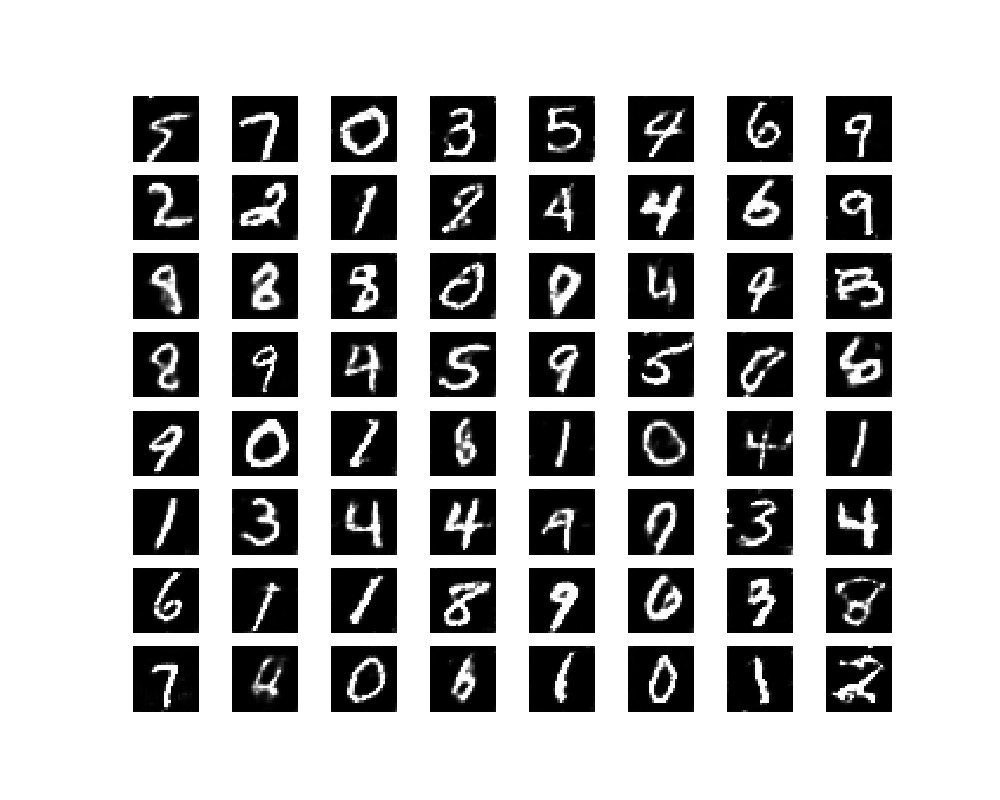
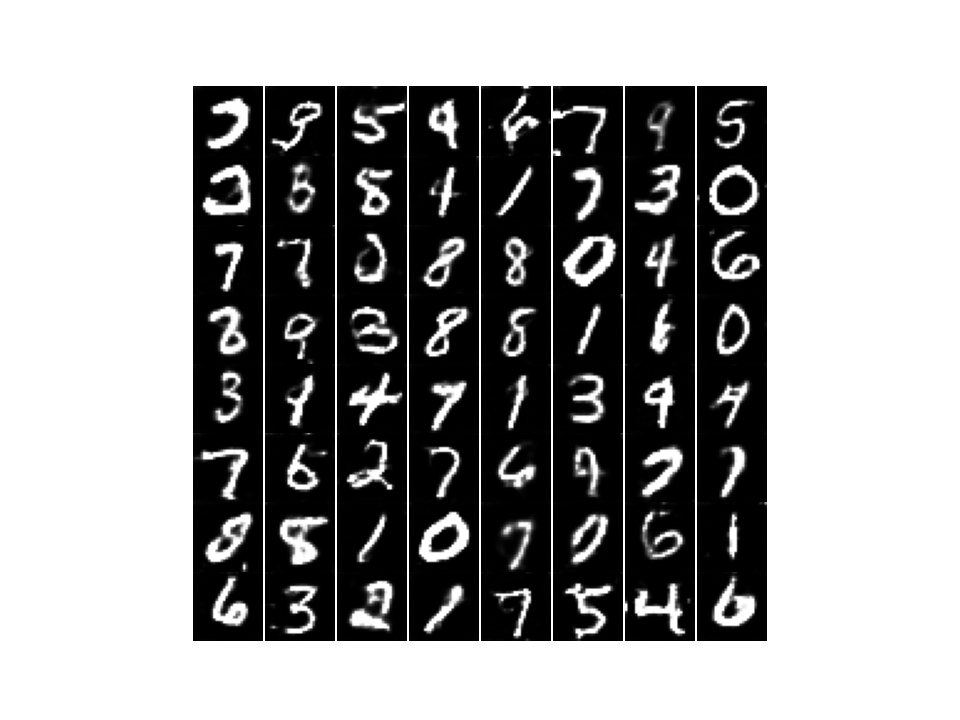
1.fix typo 2.add a hint when image saved 3.adjust the space between the subplots

diff --git a/train.py b/train.py
@@ -102,16 +102,14 @@ class Trainer:
     @staticmethod
     def save_imgs(images, epoch):
         plt.rcParams['image.cmap'] = 'gray'
-        plt.rcParams['figure.figsize'] = (10.0, 8.0)
-        plt.rcParams['image.interpolation'] = 'nearest'
-
         sqrtn = int(np.ceil(np.sqrt(images.size(0))))
 
         for index, image in enumerate(images):
             plt.subplot(sqrtn, sqrtn, index + 1)
             plt.imshow(image)
             plt.axis('off')
-        plt.savefig('./img/Epoch{}.png'.format(epoch+1))
+            plt.subplots_adjust(wspace=0, hspace=0, left=0.2, right=0.8)
+        plt.savefig('./img/Epoch{}.png'.format(epoch+1), dpi=150)
 
     def train(self, dataloader, epochs):
         for epoch in range(epochs):
@@ -122,3 +120,4 @@ class Trainer:
                 if epoch + 1:
                     images = self.G(self.fixed_noise).reshape(-1, 28, 28)
                     self.save_imgs(images.cpu(), epoch)
+                    print('image saved!')

diff --git a/main.py b/main.py
@@ -14,19 +14,19 @@ dataset = datasets.MNIST(root='./dataset/', train=True, download=False, transfor
 dataloader = DataLoader(dataset, shuffle=True, batch_size=batch_size)
 
 generator = Generator()
-discrimnator = Discrimnator()
+discriminator = Discrimnator()
 
 print(generator)
-print(discrimnator)
+print(discriminator)
 
 initial_lr = 5e-4
 betas = (0.9, 0.99)
 g_optimizer = optim.Adam(generator.parameters(), lr=initial_lr, betas=betas)
-d_optimizer = optim.Adam(discrimnator.parameters(), lr=initial_lr, betas=betas)
+d_optimizer = optim.Adam(discriminator.parameters(), lr=initial_lr, betas=betas)
 
-epochs = 1000
+epochs = 200
 device = torch.device("cuda" if torch.cuda.is_available() else "cpu")
-trainer = Trainer(generator, g_optimizer, discrimnator, d_optimizer, device=device)
+trainer = Trainer(generator, g_optimizer, discriminator, d_optimizer, device=device)
 trainer.train(dataloader, epochs)
 
 name = 'mnist_model'
